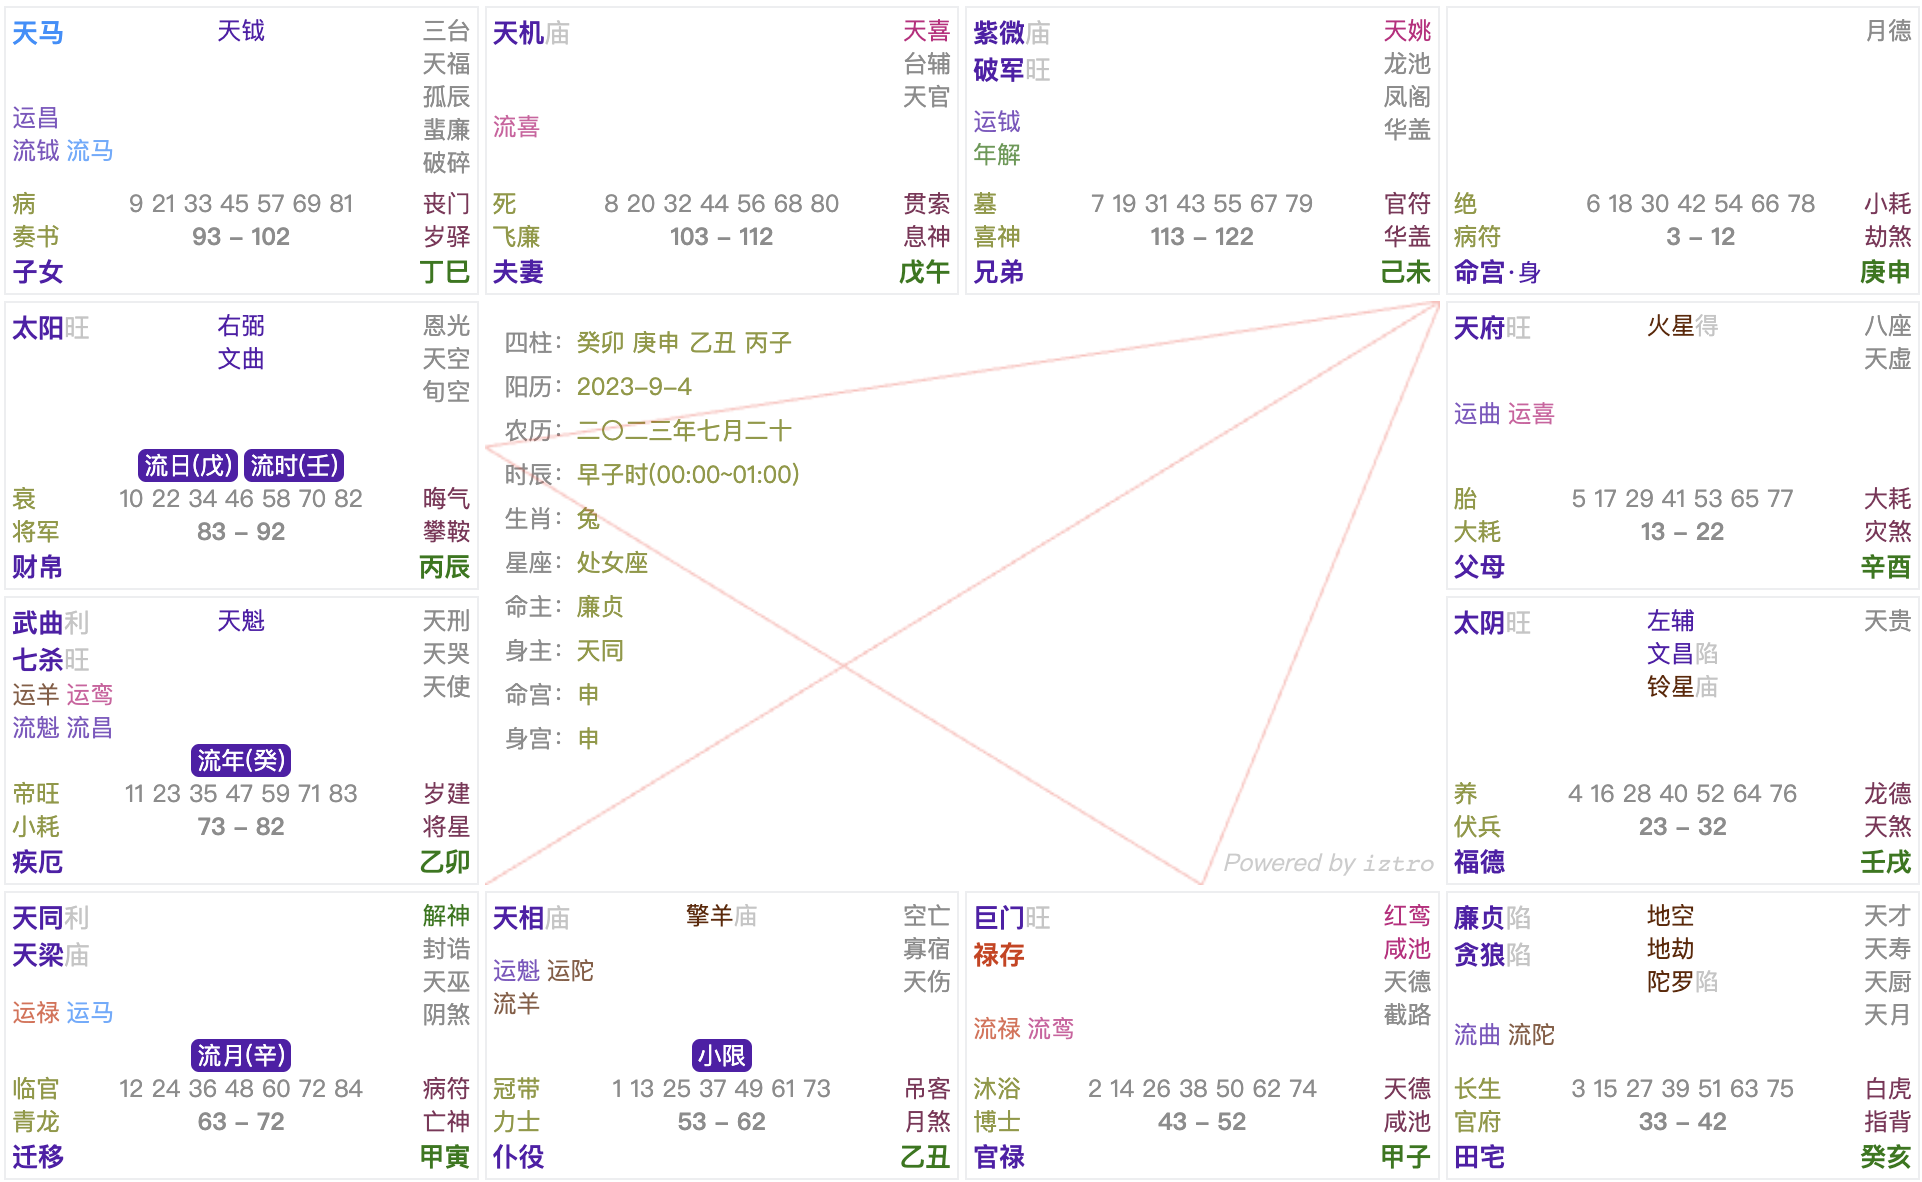
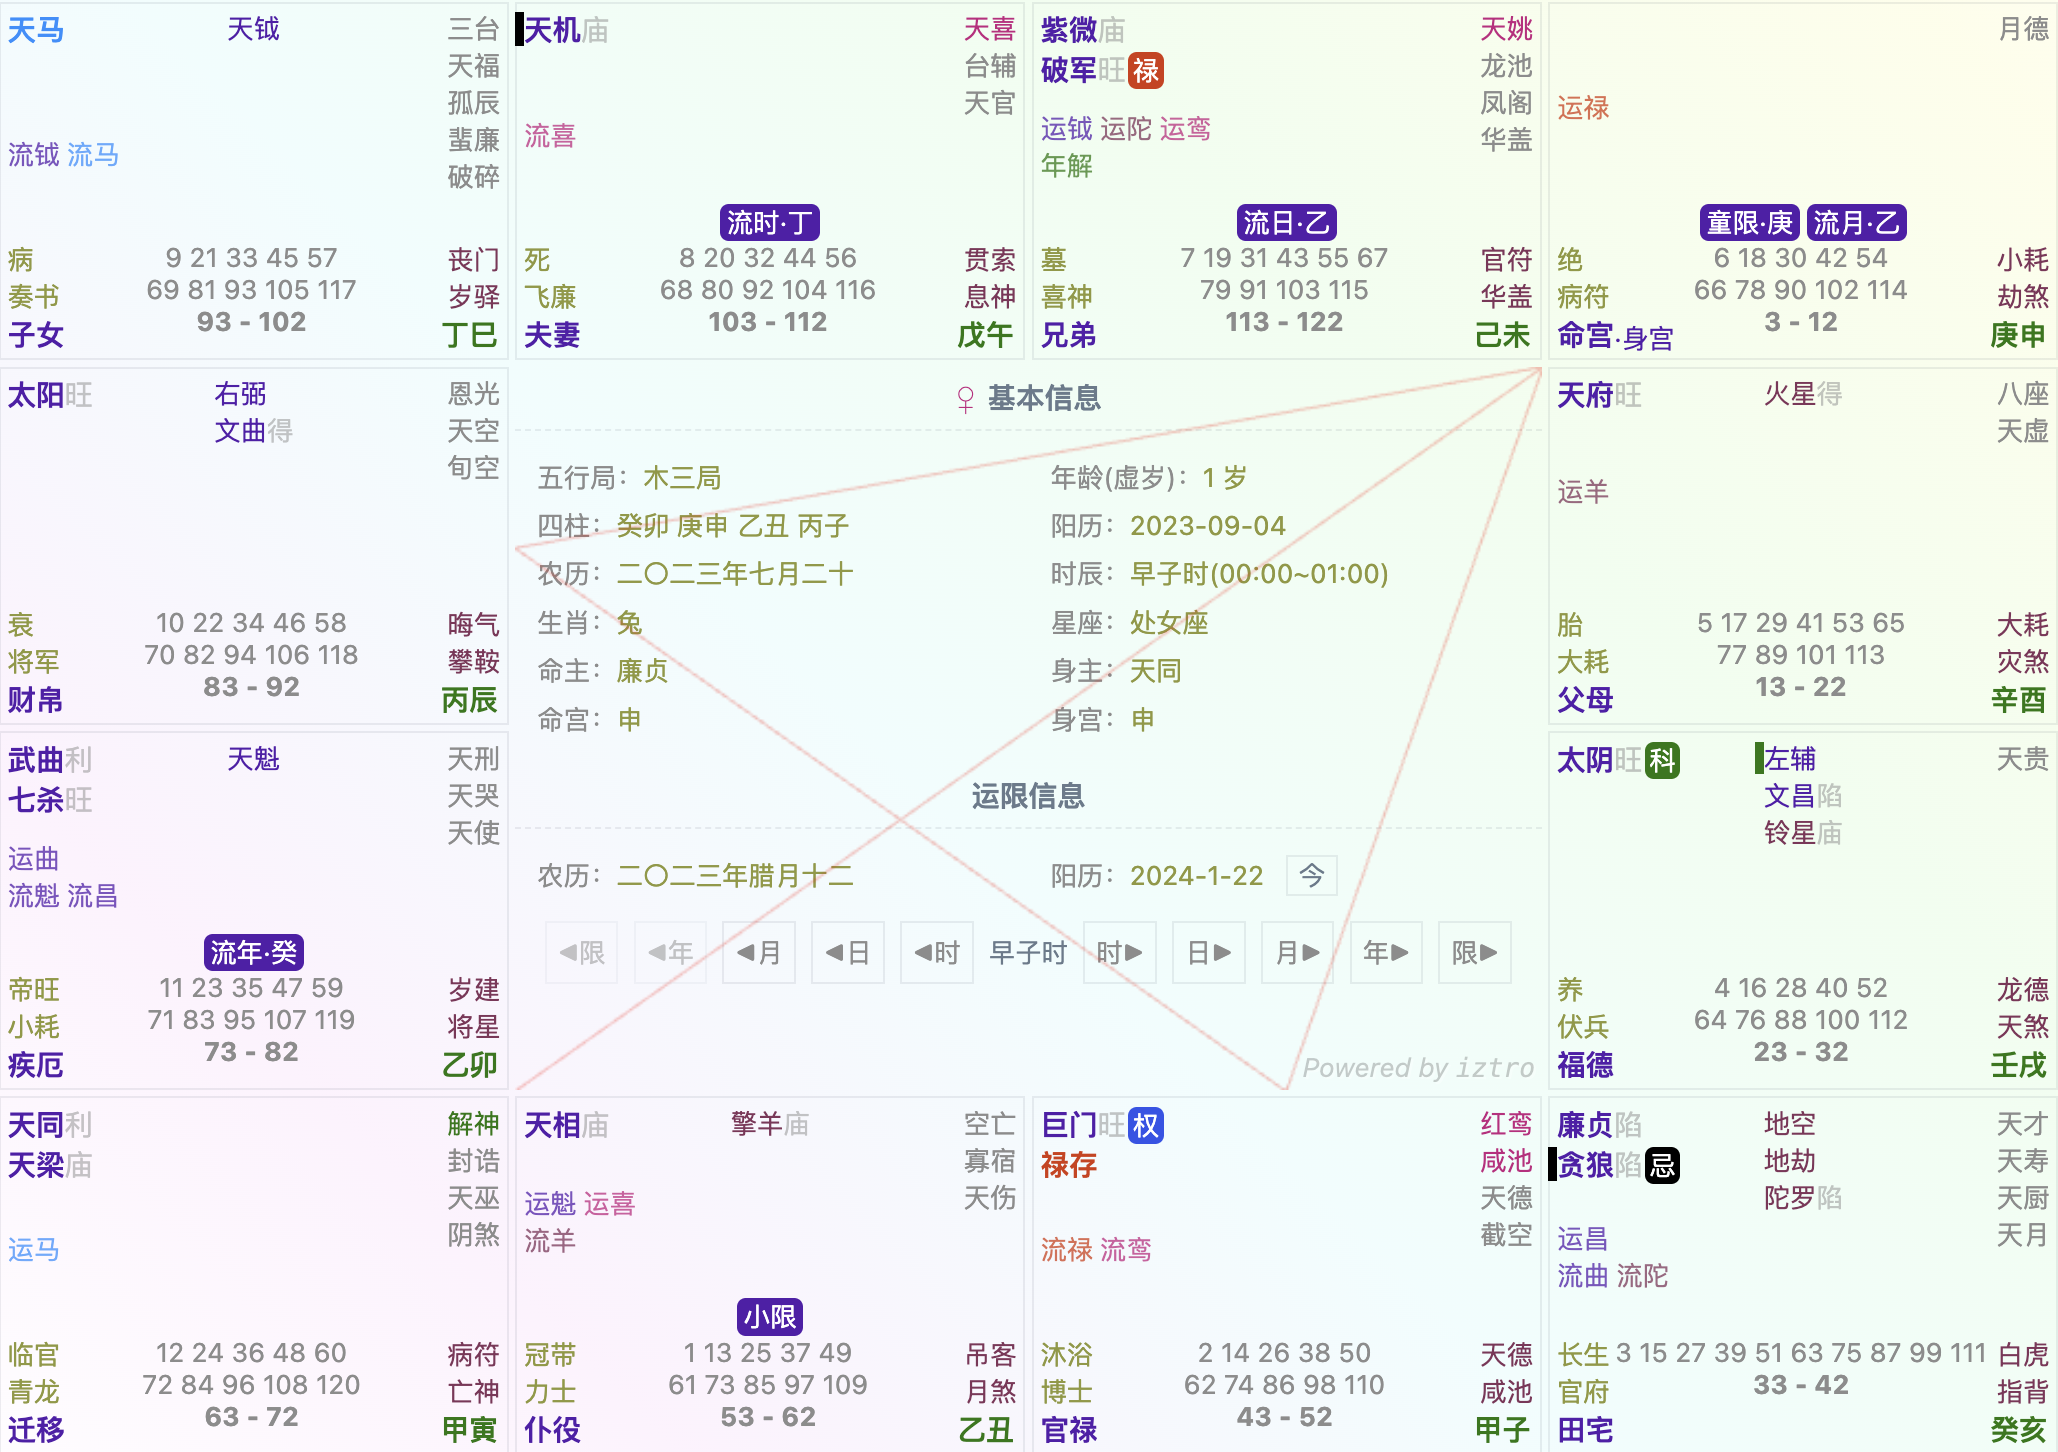
feat: mutagen

diff --git a/learn/star.md b/learn/star.md
@@ -123,3 +123,22 @@ description: "紫微研习社，紫微斗数基础知识，紫微斗数星耀，
 :::tip 提示
 在紫微斗数中，个性的差异是通过对比体现出来的，比如武曲固执，但是同样是武曲，身宫在命宫的武曲更固执，身宫在命宫且化权的武曲又更加固执。
 :::
+
+## 流耀
+
+流耀就是随着时间而变化的星耀，流耀也来自于本命星耀。在本系统中，只考虑大限和流年的流耀，有些门派会排出其他运限的流耀。流耀的作用范围仅限当前运限。为了区分，大限的流耀会在前面加上一个“运”字，而流年的流耀会在前面加一个“流”字。大限没有解神星，所以解神星在流年中叫 `年解`。
+
+每个门派对流耀的使用也不尽相同，本程序尽量全的列出了所有流耀，以便不同门派按需取用。如果有漏掉的流耀，希望添加笔者微信（iztroi）告知，在下感激不尽。目前会随着时间流动的星耀如下：
+
+- 天魁
+- 天钺
+- 文昌
+- 文曲
+- 红鸾
+- 天喜
+- 禄存
+- 擎羊
+- 陀罗
+- 天马
+- 解神
+- 四化

diff --git a/zh_TW/learn/star.md b/zh_TW/learn/star.md
@@ -123,3 +123,22 @@ description: "紫微研習社，紫微鬥數基礎知識，紫微鬥數星耀，
 :::tip 提示
 在紫微鬥數中，個性的差異是通過對比體現出來的，比如武曲固執，但是同樣是武曲，身宮在命宮的武曲更固執，身宮在命宮且化權的武曲又更加固執。
 :::
+
+## 流耀
+
+流耀就是隨著時間而變化的星耀，流耀也來自於本命星耀。在本系統中，只考慮大限和流年的流耀，有些門派會排出其他運限的流耀。流耀的作用範圍僅限當前運限。為了區分，大限的流耀會在前面加上一個「運」字，而流年的流耀會在前面加一個「流」字。大限沒有解神星，所以解神星在流年中叫 `年解`。
+
+每個門派對流耀的使用也不盡相同，本程序盡量全的列出了所有流耀，以便不同門派按需取用。如果有漏掉的流耀，希望添加筆者微信（iztroi）告知，在下感激不盡。目前會隨著時間流動的星耀如下：
+
+- 天魁
+- 天鉞
+- 文昌
+- 文曲
+- 紅鸞
+- 天喜
+- 祿存
+- 擎羊
+- 陀羅
+- 天馬
+- 解神
+- 四化
